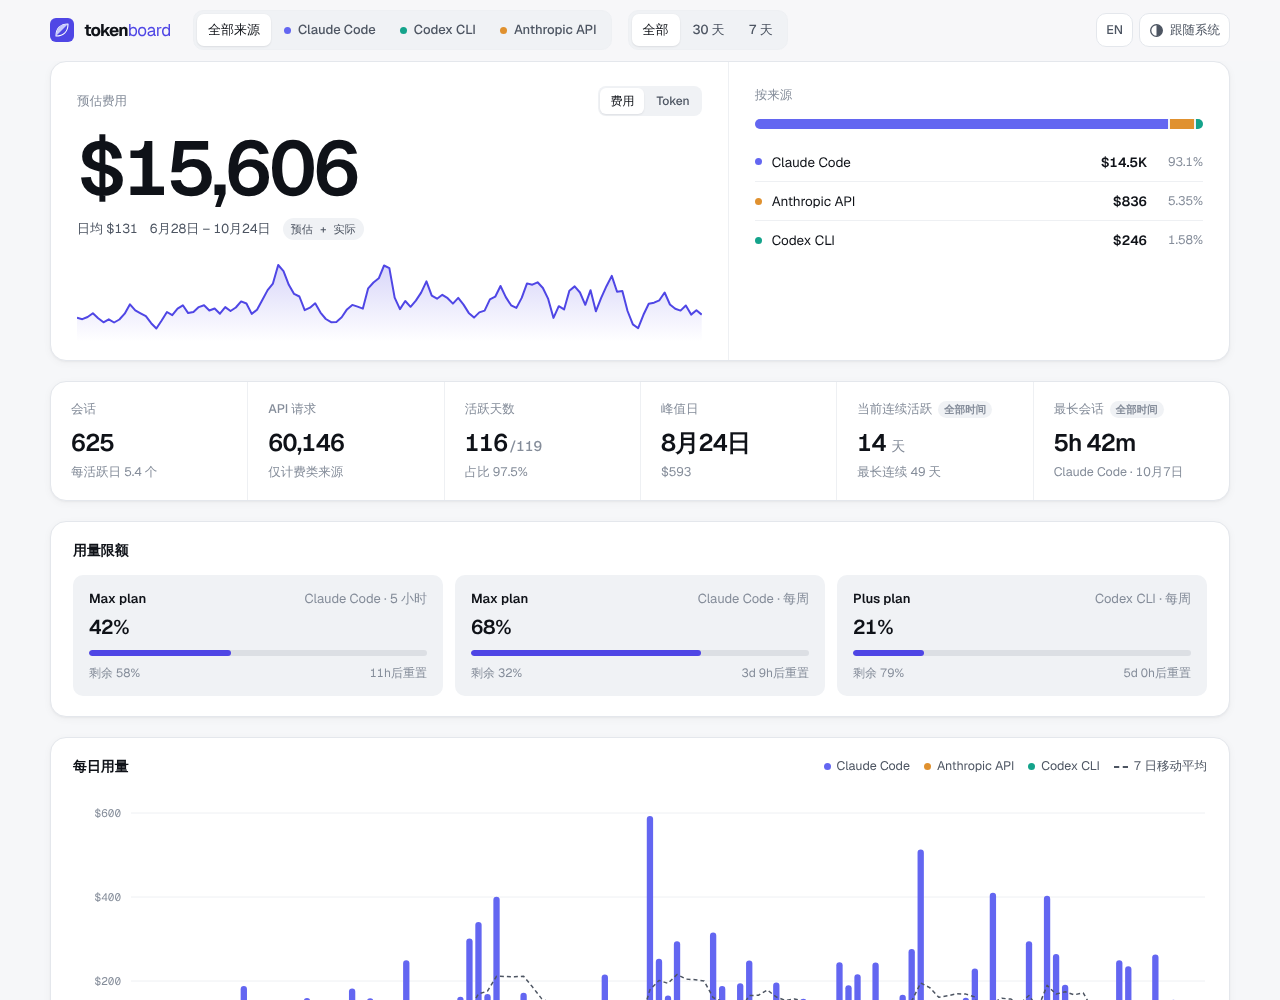
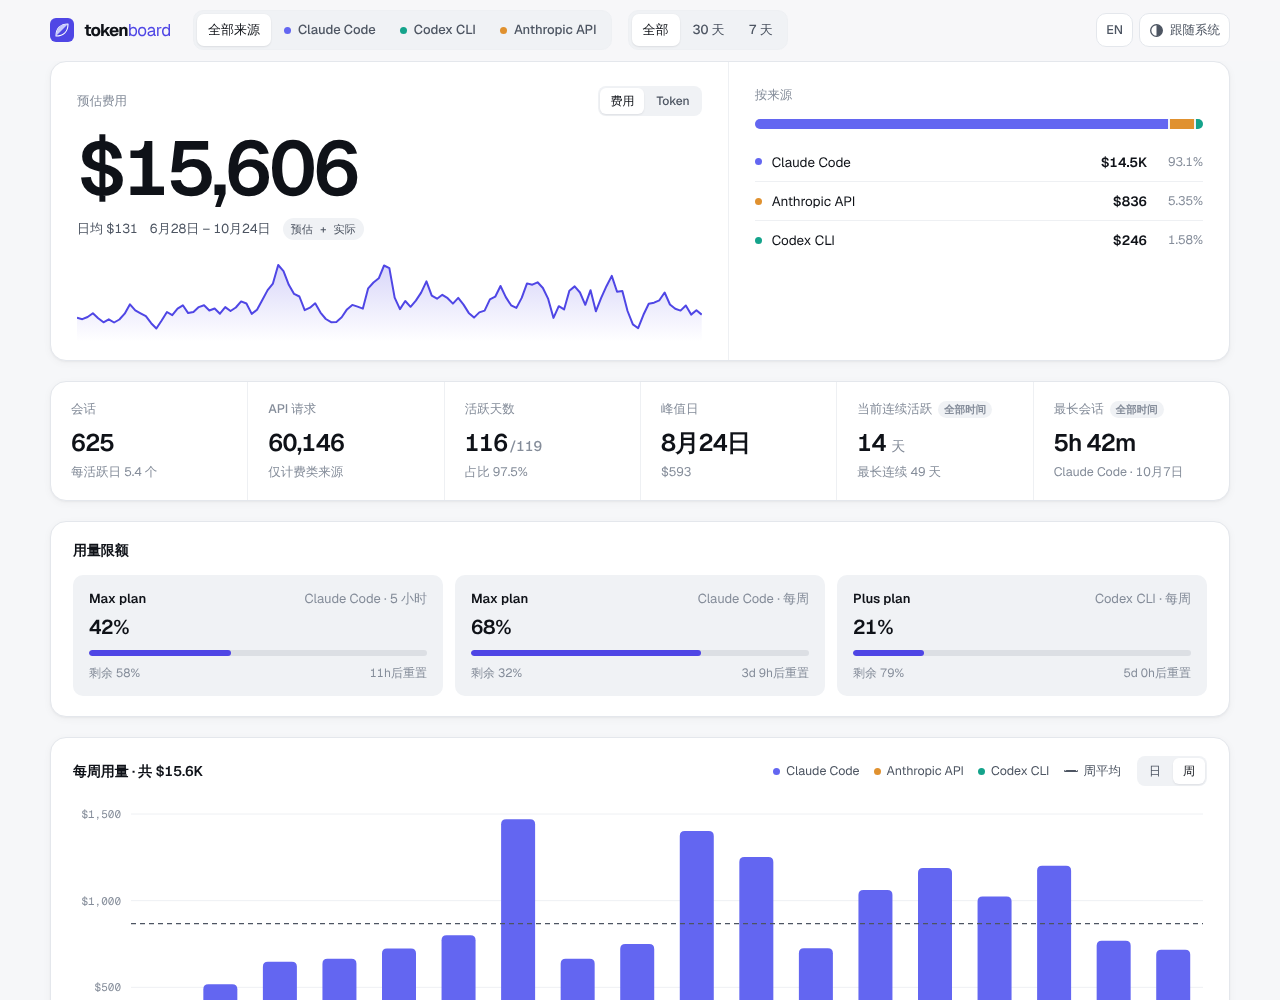
Rework the usage chart: full scale, day or week, fewer series
- The axis always reaches the tallest bar; nothing is capped
- Ranges over 60 days show weekly bars; a Day/Week switch overrides it
- Bars split into the three largest series plus "Other models"
- Smooth 7-day moving average on daily bars, weekly average line on
  weekly bars; hovering dims the other bars; the title shows the total

Claude-Session: https://claude.ai/code/session_017dJTbyTNzBpXq5YCqgYtuK

diff --git a/web/index.html b/web/index.html
@@ -157,9 +157,14 @@ svg text{fill:var(--text-3);font:11px var(--mono)}
 /* Charts */
 .legend{display:flex;flex-wrap:wrap;gap:6px 14px;font-size:12.5px;color:var(--text-2)}
 .legend span{display:inline-flex;align-items:center;gap:6px}
-.legend .ma{width:14px;height:0;border-top:2px dashed var(--text-2)}
+.legend .ma{width:14px;height:0;border-top:2px solid color-mix(in srgb,var(--text) 70%,transparent);border-radius:2px}
+.legend .ma.dash{border-top:2px dashed var(--text-2)}
 .chart{position:relative;touch-action:pan-y;-webkit-user-select:none;user-select:none}
 .chart svg{display:block;width:100%;height:auto;overflow:visible}
+.cols .col{transition:opacity .15s}
+.cols.hovering .col{opacity:.4}
+.cols.hovering .col.on{opacity:1}
+.card-tools{display:flex;flex-wrap:wrap;align-items:center;justify-content:flex-end;gap:8px 16px}
 .tip{position:absolute;z-index:4;pointer-events:none;min-width:180px;padding:10px 12px;border-radius:var(--r-md);background:var(--tip-bg);
   border:1px solid var(--tip-border);box-shadow:0 10px 30px rgba(15,18,24,.14);font-size:12.5px;line-height:1.6}
 .tip .t{font-weight:600;margin-bottom:4px}
@@ -281,7 +286,7 @@ footer a:hover{color:var(--text);text-decoration:underline}
   </section>
 
   <section class="card">
-    <div class="card-h"><h2 id="dailyTitle"></h2><div class="legend" id="dailyLegend"></div></div>
+    <div class="card-h"><h2 id="dailyTitle"></h2><div class="card-tools"><div class="legend" id="dailyLegend"></div><div class="mini-seg" role="group" id="granSeg"><button type="button" id="g-day" data-g="day"></button><button type="button" id="g-week" data-g="week"></button></div></div></div>
     <div class="card-b"><div class="chart" id="daily"></div></div>
   </section>
 
@@ -339,7 +344,7 @@ footer a:hover{color:var(--text);text-decoration:underline}
       activeDays: 'Active days', ofDays: '{p} of days', peakDay: 'Peak day', streak: 'Current streak', longest: 'Longest: {n} days',
       longestSession: 'Longest session', allTime: 'All time', days: 'd',
       quotas: 'Usage limits', resetsIn: 'Resets in {t}', reset: 'Reset', left: '{p} remaining', window5h: '5-hour', window7d: 'Weekly',
-      daily: 'Daily usage', avg7: '7-day moving average', total: 'Total', noActivity: 'No activity', none: 'No data for this period',
+      daily: 'Daily usage', weekly: 'Weekly usage', totalOf: '{v} total', weekAvg: 'Weekly average', gDay: 'Day', gWeek: 'Week', ariaGran: 'Granularity', avg7: '7-day moving average', total: 'Total', noActivity: 'No activity', none: 'No data for this period',
       calendar: 'Activity heatmap', activeCount: '{n} active days', hidden: '{n} earlier day(s) not shown', less: 'Less', more: 'More', hoverDay: 'Hover or tap a day',
       rhythm: 'Activity by hour', peak: 'Peak hour {h}', messages: '{n} messages', hoverSlot: '{n} messages in total · hover or tap a slot',
       breakdown: 'Models', modelsCount: '{n} models', model: 'Model', share: 'Share', input: 'Input', output: 'Output', cacheRead: 'Cache read', cacheWrite: 'Cache write',
@@ -364,7 +369,7 @@ footer a:hover{color:var(--text);text-decoration:underline}
       activeDays: '活跃天数', ofDays: '占比 {p}', peakDay: '峰值日', streak: '当前连续活跃', longest: '最长连续 {n} 天',
       longestSession: '最长会话', allTime: '全部时间', days: '天',
       quotas: '用量限额', resetsIn: '{t}后重置', reset: '已重置', left: '剩余 {p}', window5h: '5 小时', window7d: '每周',
-      daily: '每日用量', avg7: '7 日移动平均', total: '合计', noActivity: '无活动', none: '所选时段内无数据',
+      daily: '每日用量', weekly: '每周用量', totalOf: '共 {v}', weekAvg: '周平均', gDay: '日', gWeek: '周', ariaGran: '粒度', avg7: '7 日移动平均', total: '合计', noActivity: '无活动', none: '所选时段内无数据',
       calendar: '活动热力图', activeCount: '{n} 个活跃日', hidden: '更早的 {n} 天未显示', less: '少', more: '多', hoverDay: '悬停或点按查看单日数据',
       rhythm: '时段分布', peak: '峰值时段 {h}', messages: '{n} 条消息', hoverSlot: '共 {n} 条消息，悬停或点按查看某个时段',
       breakdown: '模型明细', modelsCount: '{n} 个模型', model: '模型', share: '占比', input: '输入', output: '输出', cacheRead: '缓存读取', cacheWrite: '缓存写入',
@@ -430,7 +435,7 @@ footer a:hover{color:var(--text);text-decoration:underline}
   }
 
   let data = null, srcColor = {}, modelColor = {};
-  const state = {src: store.get('src') || 'all', range: store.get('range') || 'all', metric: store.get('metric') || 'cost'};
+  const state = {src: store.get('src') || 'all', range: store.get('range') || 'all', metric: store.get('metric') || 'cost', gran: store.get('gran') || 'auto'};
 
   const rowTok = (r) => (r.in || 0) + (r.out || 0) + (r.cr || 0) + (r.cw || 0);
   function rowCost(r) {
@@ -503,7 +508,7 @@ footer a:hover{color:var(--text);text-decoration:underline}
   function renderChrome() {
     document.documentElement.lang = lang === 'zh' ? 'zh-CN' : 'en';
     $('r-all').textContent = t('all'); $('r-30').textContent = t('d30'); $('r-7').textContent = t('d7');
-    $('m-cost').textContent = t('cost'); $('m-tok').textContent = t('tokens');
+    $('m-cost').textContent = t('cost'); $('m-tok').textContent = t('tokens'); $('g-day').textContent = t('gDay'); $('g-week').textContent = t('gWeek'); $('granSeg').setAttribute('aria-label', t('ariaGran'));
     $('langBtn').textContent = t('lang'); $('langBtn').setAttribute('aria-label', lang === 'zh' ? 'Switch to English' : '切换到中文');
     $('themeBtn').innerHTML = THEME_ICON[theme] + '<span>' + t(theme === 'system' ? 'themeSystem' : theme === 'light' ? 'themeLight' : 'themeDark') + '</span>';
     $('srcSeg').setAttribute('aria-label', t('ariaSrc')); $('rngSeg').setAttribute('aria-label', t('ariaRange')); $('metricSeg').setAttribute('aria-label', t('ariaMetric'));
@@ -635,65 +640,94 @@ footer a:hover{color:var(--text);text-decoration:underline}
 
   /* ---------- daily chart ---------- */
   function niceStep(max, n) { const raw = max / n || 1, mag = Math.pow(10, Math.floor(Math.log10(raw))); return [1, 2, 2.5, 5, 10].map(s => s * mag).find(s => raw <= s); }
+  // Smooth line through points with a monotone cubic, so the average never overshoots between days.
+  function smoothPath(pts) {
+    if (pts.length < 3) return pts.map((p, i) => (i ? 'L' : 'M') + p[0].toFixed(1) + ',' + p[1].toFixed(1)).join('');
+    const n = pts.length, dx = [], sl = [], tg = [];
+    for (let i = 0; i < n - 1; i++) { dx[i] = pts[i + 1][0] - pts[i][0]; sl[i] = (pts[i + 1][1] - pts[i][1]) / dx[i]; }
+    tg[0] = sl[0]; tg[n - 1] = sl[n - 2];
+    for (let i = 1; i < n - 1; i++) tg[i] = sl[i - 1] * sl[i] <= 0 ? 0 : (sl[i - 1] + sl[i]) / 2;
+    let d = 'M' + pts[0][0].toFixed(1) + ',' + pts[0][1].toFixed(1);
+    for (let i = 0; i < n - 1; i++) {
+      const h = dx[i] / 3;
+      d += `C${(pts[i][0] + h).toFixed(1)},${(pts[i][1] + tg[i] * h).toFixed(1)} ${(pts[i + 1][0] - h).toFixed(1)},${(pts[i + 1][1] - tg[i + 1] * h).toFixed(1)} ${pts[i + 1][0].toFixed(1)},${pts[i + 1][1].toFixed(1)}`;
+    }
+    return d;
+  }
+  const CHART_SERIES = 4;  // the bars split into at most three named series plus "other"
   function renderDaily(v) {
     const box = $('daily'), leg = $('dailyLegend'); box.replaceChildren(); leg.replaceChildren();
-    v.order.forEach(k => { const s = E('span'), d = E('i', 'dot'); d.style.background = gColor(k); s.append(d, gName(k)); leg.appendChild(s); });
-    const ma = E('span'); ma.append(E('i', 'ma'), t('avg7')); leg.appendChild(ma);
-    if (!v.total) { box.appendChild(E('div', 'empty', t('none'))); return; }
+    if (!v.total) { $('dailyTitle').textContent = t('daily'); box.appendChild(E('div', 'empty', t('none'))); return; }
     const start = state.range === 'all' ? D(denseStart([...v.byDay.keys()])) : v.start;
-    const days = []; for (let d = start; d <= v.last; d = add(d, 1)) days.push(d);
-    const tot = days.map(d => dayTotal(v.byDay.get(K(d))));
-    const avg = tot.map((_, i) => { const w = tot.slice(Math.max(0, i - 6), i + 1); return w.reduce((a, b) => a + b, 0) / w.length; });
-    const sorted = tot.filter(x => x > 0).sort((a, b) => a - b), p95 = sorted[Math.floor(sorted.length * .95)] || 0, mx = Math.max(...tot);
-    const cap = sorted.length > 10 && mx > p95 * 2 ? p95 * 1.35 : mx;
+    const span = diff(start, v.last) + 1;
+    const weekly = state.gran === 'week' || (state.gran !== 'day' && span > 60);
+    document.querySelectorAll('#granSeg button').forEach(b => b.setAttribute('aria-pressed', String(b.dataset.g === (weekly ? 'week' : 'day'))));
+    // Buckets: one per day, or one per Monday-first week.
+    const buckets = [];
+    if (weekly) {
+      for (let w0 = add(start, -((start.getUTCDay() + 6) % 7)); w0 <= v.last; w0 = add(w0, 7)) buckets.push({from: w0, to: add(w0, 6) > v.last ? v.last : add(w0, 6)});
+    } else for (let d = start; d <= v.last; d = add(d, 1)) buckets.push({from: d, to: d});
+    // Series for the bars: the three largest groups, everything else as "other".
+    const named = v.order.filter(k => k !== REST).slice(0, CHART_SERIES - 1);
+    const series = v.order.length > named.length ? named.concat(REST) : named;
+    const keyOf = (k) => named.includes(k) ? k : REST;
+    buckets.forEach(b => {
+      b.parts = {}; b.total = 0;
+      for (let d = b.from; d <= b.to; d = add(d, 1)) {
+        const mm = v.byDay.get(K(d)); if (!mm) continue;
+        for (const k in mm) { const kk = keyOf(k); b.parts[kk] = (b.parts[kk] || 0) + mm[k]; b.total += mm[k]; }
+      }
+    });
+    const tot = buckets.map(b => b.total);
+    const avg = weekly ? null : tot.map((_, i) => { const w = tot.slice(Math.max(0, i - 6), i + 1); return w.reduce((a, b) => a + b, 0) / w.length; });
+    const mean = tot.reduce((a, b) => a + b, 0) / tot.length;
+
+    $('dailyTitle').textContent = (weekly ? t('weekly') : t('daily')) + ' · ' + t('totalOf', {v: fmt(v.total)});
+    series.forEach(k => { const el = E('span'), d = E('i', 'dot'); d.style.background = gColor(k); el.append(d, gName(k)); leg.appendChild(el); });
+    const ml = E('span'); ml.append(E('i', weekly ? 'ma dash' : 'ma'), weekly ? t('weekAvg') : t('avg7')); leg.appendChild(ml);
+
     const W = Math.max(300, box.clientWidth), narrow = W < 600, H = narrow ? 230 : 300;
-    const m = {t: 22, r: 2, b: 26, l: narrow ? 46 : 58};
-    const step = niceStep(cap, narrow ? 3 : 4), top = Math.ceil(cap / step) * step || 1;
-    const iw = W - m.l - m.r, bw = iw / days.length, barW = Math.max(1.5, Math.min(18, bw * (days.length > 45 ? .7 : .58)));
-    const X = (i) => m.l + i * bw + bw / 2, Y = (n) => H - m.b - Math.min(n, top) / top * (H - m.t - m.b);
-    const svg = S('svg', {viewBox: `0 0 ${W} ${H}`, role: 'img', 'aria-label': t('daily')}, box);
+    const m = {t: 14, r: 4, b: 26, l: narrow ? 46 : 58};
+    // The axis always reaches the tallest bar: nothing is ever cut off.
+    const mx = Math.max(...tot), step = niceStep(mx, narrow ? 3 : 4), top = Math.ceil(mx / step - 1e-9) * step || 1;
+    const iw = W - m.l - m.r, bw = iw / buckets.length, barW = Math.max(2, Math.min(weekly ? 34 : 22, bw * .7));
+    const X = (i) => m.l + i * bw + bw / 2, Y = (n) => H - m.b - n / top * (H - m.t - m.b);
+    const svg = S('svg', {viewBox: `0 0 ${W} ${H}`, role: 'img', 'aria-label': $('dailyTitle').textContent}, box);
     for (let y = 0; y <= top + 1e-9; y += step) {
       S('line', {x1: m.l, x2: W - m.r, y1: Y(y), y2: Y(y), stroke: y ? 'var(--border-soft)' : 'var(--border)'}, svg);
       const tx = S('text', {x: m.l - 10, y: Y(y) + 4, 'text-anchor': 'end'}, svg); tx.textContent = fmt(y);
     }
-    const every = Math.max(1, Math.round(days.length / (narrow ? 4 : 8)));
-    days.forEach((d, i) => { if (i % every === 0) { const tx = S('text', {x: X(i), y: H - 6, 'text-anchor': 'middle'}, svg); tx.textContent = axisDate(d); } });
-    const hl = S('rect', {y: m.t - 6, height: H - m.t - m.b + 6, width: bw, rx: 6, fill: 'var(--text)', 'fill-opacity': .05, visibility: 'hidden'}, svg);
-    const cols = S('g', {}, svg), capped = [];
-    const r = Math.min(4, barW / 2);
-    days.forEach((d, i) => {
-      const mrec = v.byDay.get(K(d)); if (!mrec) return;
-      const g = S('g', {class: 'grow', style: `animation-delay:${Math.min(400, i * 4)}ms`}, cols);
-      let acc = 0; const keys = v.order.filter(k => mrec[k]).reverse();
+    const every = Math.max(1, Math.round(buckets.length / (narrow ? 4 : weekly ? 9 : 8)));
+    buckets.forEach((b, i) => { if (i % every === 0) { const tx = S('text', {x: X(i), y: H - 6, 'text-anchor': 'middle'}, svg); tx.textContent = axisDate(b.from); } });
+    const cols = S('g', {class: 'cols'}, svg), r = Math.min(5, barW / 2);
+    buckets.forEach((b, i) => {
+      if (!b.total) return;
+      const g = S('g', {class: 'col grow', 'data-i': i, style: `animation-delay:${Math.min(400, i * (weekly ? 18 : 4))}ms`}, cols);
+      let acc = 0; const keys = series.filter(k => b.parts[k]).reverse();
       keys.forEach((k, j) => {
-        const y0 = Y(acc), y1 = Y(acc + mrec[k]); acc += mrec[k]; const h = y0 - y1; if (h < .3) return;
-        const isTop = j === keys.length - 1, rr = isTop ? Math.min(r, h) : 0, x0 = X(i) - barW / 2;
-        S('path', {d: `M${x0},${y0}V${y1 + rr}Q${x0},${y1} ${x0 + rr},${y1}H${x0 + barW - rr}Q${x0 + barW},${y1} ${x0 + barW},${y1 + rr}V${y0}Z`, fill: gColor(k)}, g);
+        const y0 = Y(acc), y1 = Y(acc + b.parts[k]); acc += b.parts[k]; const h = y0 - y1; if (h < .3) return;
+        const rr = j === keys.length - 1 ? Math.min(r, h) : 0, x0 = X(i) - barW / 2;
+        // A hairline in the card colour between stacked segments keeps them apart without borders.
+        S('path', {d: `M${x0},${y0}V${y1 + rr}Q${x0},${y1} ${x0 + rr},${y1}H${x0 + barW - rr}Q${x0 + barW},${y1} ${x0 + barW},${y1 + rr}V${y0}Z`,
+          fill: gColor(k), stroke: 'var(--surface)', 'stroke-width': j < keys.length - 1 ? .8 : 0}, g);
       });
-      if (tot[i] > top) capped.push(i);
     });
-    // Several capped days can sit side by side; label the tallest first and drop labels that would overlap.
-    const placed = [];
-    capped.sort((a, b) => tot[b] - tot[a]).forEach(i => {
-      const label = fmt(tot[i]) + ' ↑', w = label.length * 6.6 + 4;
-      let x = Math.min(W - m.r - w / 2, Math.max(m.l + w / 2, X(i)));
-      if (placed.some(p => Math.abs(p.x - x) < (p.w + w) / 2 + 6)) return;
-      placed.push({x, w});
-      const tx = S('text', {x, y: m.t - 8, 'text-anchor': 'middle', style: 'fill:var(--text-2);font-weight:500'}, svg); tx.textContent = label;
-    });
-    let pd = ''; avg.forEach((a, i) => pd += (i ? 'L' : 'M') + X(i).toFixed(1) + ',' + Y(a).toFixed(1));
-    S('path', {d: pd, fill: 'none', stroke: 'var(--text-2)', 'stroke-width': 1.5, 'stroke-dasharray': '4 3', 'stroke-linejoin': 'round'}, svg);
+    if (weekly) S('line', {x1: m.l, x2: W - m.r, y1: Y(mean), y2: Y(mean), stroke: 'var(--text-2)', 'stroke-width': 1.2, 'stroke-dasharray': '5 4'}, svg);
+    else S('path', {d: smoothPath(avg.map((a, i) => [X(i), Y(a)])), fill: 'none', stroke: 'var(--text)', 'stroke-opacity': .7, 'stroke-width': 1.6, 'stroke-linecap': 'round'}, svg);
     const tip = tipFor(box);
-    const at = (ev) => { const b = svg.getBoundingClientRect(); return Math.max(0, Math.min(days.length - 1, Math.floor(((ev.clientX - b.left) * W / b.width - m.l) / bw))); };
+    const at = (ev) => { const bb = svg.getBoundingClientRect(); return Math.max(0, Math.min(buckets.length - 1, Math.floor(((ev.clientX - bb.left) * W / bb.width - m.l) / bw))); };
     const show = (ev) => {
-      const i = at(ev), mrec = v.byDay.get(K(days[i])) || {}, b = svg.getBoundingClientRect();
-      hl.setAttribute('x', X(i) - bw / 2); hl.setAttribute('visibility', 'visible');
-      const rows = v.order.filter(k => mrec[k]).map(k => [gName(k), fmt(mrec[k]), gColor(k)]);
-      tip.show(X(i) * b.width / W, Y(tot[i]) * b.width / W, dateFmt(days[i], true),
-        rows.length ? rows.concat(['-', [t('total'), fmt(tot[i])], [t('avg7'), fmt(avg[i])]]) : [[t('noActivity'), '']]);
+      const i = at(ev), b = buckets[i], bb = svg.getBoundingClientRect();
+      cols.classList.add('hovering');
+      cols.querySelectorAll('.col.on').forEach(c => c.classList.remove('on'));
+      const c = cols.querySelector(`.col[data-i="${i}"]`); if (c) c.classList.add('on');
+      const title = weekly ? dateFmt(b.from) + ' – ' + dateFmt(b.to) : dateFmt(b.from, true);
+      const rows = series.filter(k => b.parts[k]).map(k => [gName(k), fmt(b.parts[k]), gColor(k)]);
+      const extra = weekly ? [t('weekAvg'), fmt(mean)] : [t('avg7'), fmt(avg[i])];
+      tip.show(X(i) * bb.width / W, Y(b.total) * bb.width / W, title, rows.length ? rows.concat(['-', [t('total'), fmt(b.total)], extra]) : [[t('noActivity'), '']]);
     };
     svg.addEventListener('pointermove', show); svg.addEventListener('pointerdown', show);
-    svg.addEventListener('pointerleave', () => { hl.setAttribute('visibility', 'hidden'); tip.hide(); });
+    svg.addEventListener('pointerleave', () => { cols.classList.remove('hovering'); tip.hide(); });
   }
 
   /* ---------- calendar ---------- */
@@ -816,6 +850,8 @@ footer a:hover{color:var(--text);text-decoration:underline}
   }
 
   document.querySelectorAll('#rngSeg button').forEach(b => b.addEventListener('click', () => { state.range = b.dataset.r; store.set('range', state.range); render(); }));
+  // Clicking the active granularity again returns to automatic (weekly beyond 60 days).
+  document.querySelectorAll('#granSeg button').forEach(b => b.addEventListener('click', () => { state.gran = b.getAttribute('aria-pressed') === 'true' && state.gran === b.dataset.g ? 'auto' : b.dataset.g; store.set('gran', state.gran); render(); }));
   document.querySelectorAll('#metricSeg button').forEach(b => b.addEventListener('click', () => { state.metric = b.dataset.m; store.set('metric', state.metric); render(); }));
   $('langBtn').addEventListener('click', () => { lang = lang === 'zh' ? 'en' : 'zh'; store.set('lang', lang); if (data) render(); });
   $('themeBtn').addEventListener('click', () => { theme = theme === 'system' ? 'light' : theme === 'light' ? 'dark' : 'system'; store.set('theme', theme); applyTheme(); if (data) render(); });
